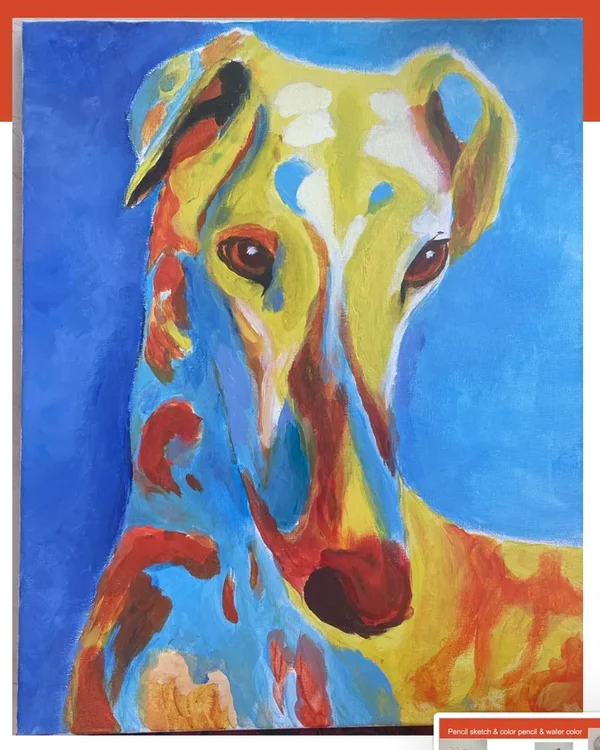
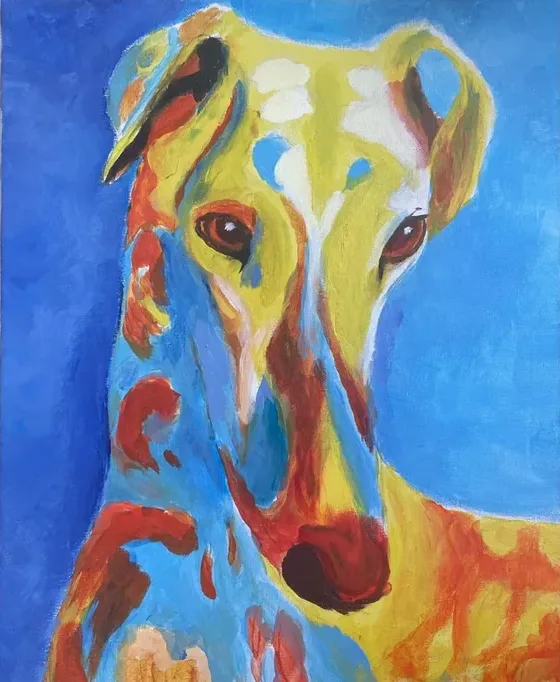
Update RedNote section, add Art gallery
- Rename Xiaohongshu/RED to RedNote across the site
- Add stat cards, audience, top posts and search-driven growth note
- Replace unconfirmed figures; add fan group and paid consultation funnel
- Add Art section with featured works and a collapsible gallery
- Crop greyhound painting

Claude-Session: https://claude.ai/code/session_01CK6WVqp7C8aWsyPmVqZJNo

diff --git a/index.html b/index.html
@@ -4,10 +4,10 @@
 <meta charset="utf-8">
 <meta name="viewport" content="width=device-width, initial-scale=1">
 <title>Hailey Qiu · Growth and AI builder</title>
-<meta name="description" content="HKU student who grew an education brand from zero to 22K followers in 9 months and ships working AI products. Looking for growth, BD and AI product roles at AI startups.">
+<meta name="description" content="HKU student who grew an education brand from zero to 22K followers since Feb 2026 and ships working AI products. Looking for growth, BD and AI product roles at AI startups.">
 <meta property="og:type" content="website">
 <meta property="og:title" content="Hailey Qiu · Growth and AI builder">
-<meta property="og:description" content="Grew an education brand to 22K followers in 9 months. Ships AI tools people actually use.">
+<meta property="og:description" content="Grew an education brand to 22K followers since Feb 2026. Ships AI tools people actually use.">
 <meta property="og:image" content="https://hailey-studio.github.io/og.png">
 <meta property="og:url" content="https://hailey-studio.github.io/">
 <meta name="twitter:card" content="summary_large_image">
@@ -167,6 +167,20 @@ td.after span{background:var(--lime);padding:2px 8px;border-radius:6px}
 .facts li:first-child{border-top:1px solid var(--line)}
 .pair{display:grid;grid-template-columns:repeat(2,minmax(0,1fr));gap:12px}
 .pair img{border-radius:12px;border:1px solid var(--line);width:100%}
+.red-data{margin-top:28px}
+.stat-row{display:grid;grid-template-columns:repeat(3,minmax(0,1fr));gap:10px}
+.stat{background:var(--bg);border-radius:14px;padding:16px 14px}
+.stat strong{display:block;font-size:clamp(24px,2.4vw,32px);font-weight:700;letter-spacing:-.04em;line-height:1}
+.stat span{display:block;margin-top:8px;font-size:13px;line-height:1.45;color:var(--muted)}
+.audience{font-size:14.5px;margin:16px 0 0;color:var(--muted)}
+.audience b{color:var(--ink);font-weight:600}
+.red-data h4{font-size:12.5px;font-weight:600;letter-spacing:.08em;text-transform:uppercase;color:var(--muted);margin:24px 0 10px}
+.top-posts{display:grid;grid-template-columns:repeat(3,minmax(0,1fr));gap:10px;margin:0;padding:0;list-style:none}
+.top-posts img{width:100%;aspect-ratio:3/4;object-fit:cover;border-radius:10px;border:1px solid var(--line)}
+.top-posts p{margin:8px 0 0;font-size:13px;line-height:1.4}
+.top-posts small{display:block;margin-top:3px;color:var(--muted);font-size:12.5px}
+.insight{margin:20px 0 0;font-size:15px;line-height:1.6;padding-left:14px;border-left:3px solid var(--peach)}
+@media (max-width:520px){.stat-row{grid-template-columns:1fr}}
 .tools{display:grid;grid-template-columns:repeat(2,minmax(0,1fr));gap:20px}
 @media (max-width:860px){.tools{grid-template-columns:1fr}}
 .tool{display:grid;grid-template-columns:minmax(0,1fr) 140px;gap:20px;background:var(--bg);border-radius:22px;padding:24px}
@@ -185,6 +199,20 @@ td.after span{background:var(--lime);padding:2px 8px;border-radius:6px}
 @media (max-width:900px){.small-builds{grid-template-columns:1fr}}
 
 /* experience */
+.art .proj-head{margin-bottom:28px}
+.art-row{display:flex;gap:14px;align-items:flex-start}
+.art figure{margin:0}
+.art img{width:100%;height:auto;display:block;border-radius:12px;background:#e6e5e0}
+.art figcaption{font-size:13px;color:var(--muted);margin-top:8px;line-height:1.4}
+.art figcaption b{color:var(--ink);font-weight:600}
+.art details{margin-top:28px;border-top:1px solid var(--line)}
+.art summary{cursor:pointer;list-style:none;padding:18px 0;font-weight:600;font-size:15px;display:flex;align-items:center;gap:10px}
+.art summary::-webkit-details-marker{display:none}
+.art summary .plus{display:inline-grid;place-items:center;width:26px;height:26px;border-radius:50%;background:var(--ink);color:#fff;font-size:16px;line-height:1;transition:transform .3s}
+.art details[open] summary .plus{transform:rotate(45deg)}
+.art-more{columns:4 200px;column-gap:14px;padding-bottom:8px}
+.art-more figure{break-inside:avoid;margin:0 0 18px}
+@media (max-width:760px){.art-row{display:block;columns:2;column-gap:12px}.art-row figure{break-inside:avoid;margin:0 0 16px}.art-more{columns:2}}
 .exp{list-style:none;margin:40px 0 0;padding:0}
 .exp li{display:grid;grid-template-columns:200px minmax(0,1fr);gap:8px 24px;padding:22px 0;border-top:1px solid var(--line)}
 .exp li:last-child{border-bottom:1px solid var(--line)}
@@ -253,7 +281,7 @@ td.after span{background:var(--lime);padding:2px 8px;border-radius:6px}
         <p class="rot" aria-label="I grow audiences, ship AI tools, and pitch to rooms of 100+.">
                     <span class="slot" aria-hidden="true" id="rot"><span>I grow <span class="mark">audiences.</span></span><span class="wait">I ship <span class="mark">AI tools.</span></span><span class="wait">I pitch to <span class="mark">rooms of 100+.</span></span></span>
         </p>
-        <p class="lede">Social science student at HKU, class of 2028. In 9 months I grew an education brand <b>from zero to 22K followers</b> with no ad spend, and I build working AI products without an engineering background. Looking for <b>growth, business development and AI product roles at AI startups.</b></p>
+        <p class="lede">Social science student at HKU, class of 2028. Since Feb 2026 I have grown an education brand <b>from zero to 22K followers</b> with no ad spend, and I build working AI products without an engineering background. Looking for <b>growth, business development and AI product roles at AI startups.</b></p>
         <div class="actions">
           <a class="btn dark" href="Hailey_Qiu_CV.pdf" target="_blank" rel="noopener">Download CV</a>
           <a class="btn light" href="#projects">See projects →</a>
@@ -271,7 +299,7 @@ td.after span{background:var(--lime);padding:2px 8px;border-radius:6px}
     <div class="wrap strip-head"><span class="pill"><span class="dot" style="background:var(--peach)"></span>Selected work</span><span class="muted" style="font-size:14px">Hover to pause</span></div>
     <div class="track" id="track">
       <a class="card wide" href="#p1"><span class="ic"><span class="dot" style="background:var(--lime)"></span>Buyer Finder</span><img class="shot" src="assets/buyer-finder.webp" alt="Buyer Finder results page"></a>
-      <a class="card" href="#p2"><span class="ic"><span class="dot" style="background:var(--peach)"></span>0 → 22K on RED</span><img class="shot" src="assets/red-notes.webp" alt="Pinned Xiaohongshu posts"></a>
+      <a class="card" href="#p2"><span class="ic"><span class="dot" style="background:var(--peach)"></span>0 → 22K on RedNote</span><img class="shot" src="assets/red-notes.webp" alt="Pinned RedNote posts"></a>
       <a class="card wide" href="#p3"><span class="ic"><img src="assets/icon-tunjinshou.webp" alt="" width="20" height="20" style="border-radius:5px">留学吞金兽</span><img class="shot" src="assets/tunjinshou-desktop.webp" alt="Study-abroad cost calculator"></a>
       <a class="card" href="#p2"><span class="ic"><span class="dot" style="background:var(--sky)"></span>Talk at CUHK</span><img class="shot" src="assets/cuhk-talk.webp" alt="Lecture hall at CUHK"></a>
       <a class="card wide" href="#p3"><span class="ic"><img src="assets/icon-sixian.webp" alt="" width="20" height="20" style="border-radius:5px">死线航空</span><img class="shot" src="assets/sixian-desktop.webp" alt="Application deadline planner"></a>
@@ -280,7 +308,7 @@ td.after span{background:var(--lime);padding:2px 8px;border-radius:6px}
 
   <div class="wrap">
     <div class="numbers rise">
-      <div><strong data-count="22" data-suffix="K">22K</strong><span>followers on Xiaohongshu, built from zero in 9 months</span></div>
+      <div><strong data-count="22" data-suffix="K">22K</strong><span>followers on RedNote, built from zero since Feb 2026</span></div>
       <div><strong data-count="60" data-suffix="K">60K</strong><span>likes on the first post after a data-led pivot</span></div>
       <div><strong>1 → 4</strong><span>fully verified buyers per Buyer Finder search, after six test rounds</span></div>
       <div><strong data-count="100" data-suffix="+">100+</strong><span>students at my talk at CUHK</span></div>
@@ -289,7 +317,7 @@ td.after span{background:var(--lime);padding:2px 8px;border-radius:6px}
 
   <section id="about" class="wrap">
     <div class="about-head"><span class="pill"><span class="dot" style="background:var(--lime)"></span>About me</span></div>
-    <p class="reveal-text" id="story">I started on Xiaohongshu writing about personal growth, and almost nobody read it. The numbers showed one post about international schools far ahead of the rest, so I rebuilt the account around it. The first post after the pivot got 60K likes. Strangers in my DMs became parents I met in person, then paying clients.</p>
+    <p class="reveal-text" id="story">I started on RedNote writing about personal growth, and almost nobody read it. The numbers showed one post about international schools far ahead of the rest, so I rebuilt the account around it. The first post after the pivot got 60K likes. Strangers in my DMs became parents I met in person, then paying clients.</p>
     <div class="about-more">
       <div class="rise">
         <p>That path, <b>from being seen to being trusted</b>, is what I want to bring to an AI startup.</p>
@@ -358,17 +386,34 @@ td.after span{background:var(--lime);padding:2px 8px;border-radius:6px}
     <article class="project rise" id="p2">
       <div class="p-meta"><span class="chip">02</span><span class="chip"><span class="dot" style="background:var(--peach)"></span>Growth · Feb 2026 to now</span></div>
       <h3>An education brand, <span class="it">from 0 to 22K</span></h3>
-      <p class="sub">My own Xiaohongshu (RED) account about international education.</p>
+      <p class="sub">My own RedNote account about international education.</p>
       <div class="p-grid">
+        <div>
         <div class="pair">
-          <img src="assets/red-profile.webp" alt="Xiaohongshu profile page of the account" loading="lazy">
+          <img src="assets/red-profile.webp" alt="RedNote profile page of the account" loading="lazy">
           <img src="assets/red-notes.webp" alt="Two pinned posts, one with 62K likes" loading="lazy" style="align-self:start">
+        </div>
+        <div class="red-data">
+          <div class="stat-row">
+            <div class="stat"><strong>22K</strong><span>followers</span></div>
+            <div class="stat"><strong>132K</strong><span>likes &amp; saves</span></div>
+            <div class="stat"><strong>~50%</strong><span>of new followers come from search (last 30 days: 50.9%)</span></div>
+          </div>
+          <p class="audience"><b>Audience:</b> 86% women, mostly aged 25–44. Top cities: Shanghai, Beijing, Shenzhen.</p>
+          <h4>Top posts</h4>
+          <ul class="top-posts">
+            <li><img src="assets/red-top-intl.webp" alt="Post cover about international schools" loading="lazy"><p>International schools and the pressure to keep up<small>62K likes</small></p></li>
+            <li><img src="assets/red-top-hku.webp" alt="Post cover about HKU" loading="lazy"><p>What HKU's prestige really looks like<small>6.1K likes</small></p></li>
+            <li><img src="assets/red-top-middle.webp" alt="Post cover about middle-class families and studying abroad" loading="lazy"><p>Middle-class families and the cost of studying abroad<small>3.1K likes</small></p></li>
+          </ul>
+          <p class="insight">About half of new followers find the account through search rather than the feed, so the content keeps attracting followers long after posting (a post from Oct 25 is still among the top follower drivers this month).</p>
+        </div>
         </div>
         <div class="p-text">
           <ul class="facts">
-            <li><b>0 to 22K followers in 9 months</b>, zero ad spend.</li>
-            <li>Read post-level data, found the strongest topic and repositioned the account. The first post after the pivot reached <b>60K likes and 10K new followers</b>; the pinned video passed 875K views.</li>
-            <li>Built a content-to-revenue funnel: inbound DMs, then in-person consultations, then paying study-planning clients.</li>
+            <li><b>0 to 22K followers</b>, zero ad spend.</li>
+            <li>Read post-level data, found the strongest topic and repositioned the account. The first post after the pivot reached <b>60K likes and 10K new followers</b>.</li>
+            <li>Built a content-to-revenue funnel: a RedNote fan group of <b>203 members</b>, then private WeChat, then <b>40 parents paying for one-on-one consultations</b>.</li>
             <li>Paid brand partnerships with education platforms, and a co-created video with a Bilibili creator with 1M+ followers.</li>
           </ul>
           <figure style="margin:24px 0 0">
@@ -382,7 +427,7 @@ td.after span{background:var(--lime);padding:2px 8px;border-radius:6px}
     <article class="project rise" id="p3">
       <div class="p-meta"><span class="chip">03</span><span class="chip"><span class="dot" style="background:var(--sky)"></span>Web tools · Live</span></div>
       <h3>Two free tools for students applying abroad</h3>
-      <p class="sub">Listed as Xiaohongshu mini-tools, so they open straight from a post.</p>
+      <p class="sub">Listed as RedNote mini-tools, so they open straight from a post.</p>
       <div class="tools">
         <div class="tool">
           <div>
@@ -427,7 +472,7 @@ td.after span{background:var(--lime);padding:2px 8px;border-radius:6px}
     </div>
     <ul class="exp rise">
       <li><span class="when">Jan – Mar 2027<br><span class="chip" style="margin-top:6px;background:var(--paper)"><span class="dot" style="background:var(--sky)"></span>Upcoming</span></span><div><span class="role">Team Lead</span> <span class="org">· IOT Data Hackathon 2027 (GS1 Hong Kong, Cyberport, HKSTP)</span><p>Competition starts in January 2027. I recruited a cross-university team (computer engineering, AI security, quantitative finance) and will own the problem research, business plan and final pitch.</p></div></li>
-      <li><span class="when">Feb 2026 – now</span><div><span class="role">Founder, study-abroad content and consulting</span> <span class="org">· Xiaohongshu (RED)</span><p>0 to 22K followers in 9 months; turned inbound DMs into paying clients and brand deals.</p></div></li>
+      <li><span class="when">Feb 2026 – now</span><div><span class="role">Founder, study-abroad content and consulting</span> <span class="org">· RedNote</span><p>0 to 22K followers; moved followers from a 203-member fan group to private WeChat, leading to 40 paid one-on-one consultations, plus brand deals.</p></div></li>
       <li><span class="when">Jun – Aug 2026</span><div><span class="role">Policy Research Intern</span> <span class="org">· Hong Kong Policy Research Institute, Shenzhen</span><p>Wrote a policy analysis on cross-border asset recovery. Presented research on the Qianhai marine economy under HKU's SIGC programme.</p></div></li>
       <li><span class="when">Summer 2026</span><div><span class="role">Speaker</span> <span class="org">· The Chinese University of Hong Kong</span><p>Talked to 100+ visiting high school students from Guangzhou about studying in Hong Kong. Also a guest speaker for ElitePrime Family Office.</p></div></li>
       <li><span class="when">2026</span><div><span class="role">Top 40</span> <span class="org">· Miss Hong Kong Pageant (TVB)</span><p>I was afraid of cameras, so I signed up.</p></div></li>
@@ -440,6 +485,32 @@ td.after span{background:var(--lime);padding:2px 8px;border-radius:6px}
         <li><b>Valley Christian High School</b>, California <span class="muted">· 2021 – 2024</span><br><span class="muted" style="font-size:15px">DECA vice president; led a 1,000+ attendee cultural festival; AP Microeconomics teaching assistant</span></li>
       </ul>
     </div>
+  </section>
+
+  <section id="art" class="wrap art">
+    <div class="proj-head">
+      <h2 class="sec-title">Art</h2>
+      <p>What I do for fun.</p>
+    </div>
+    <div class="art-row rise">
+      <figure style="flex:1.333"><img src="assets/art/beetles.webp" alt="Figure with beetles, coloured pencil and gold" loading="lazy"><figcaption><b>Figure with beetles</b> · coloured pencil and gold</figcaption></figure>
+      <figure style="flex:0.718"><img src="assets/art/gold-fish.webp" alt="Blue figure with gold fish, coloured pencil" loading="lazy"><figcaption><b>Blue figure with gold fish</b> · coloured pencil</figcaption></figure>
+      <figure style="flex:0.821"><img src="assets/art/greyhound.webp" alt="Greyhound, acrylic on canvas" loading="lazy"><figcaption><b>Greyhound</b> · acrylic on canvas</figcaption></figure>
+      <figure style="flex:0.789"><img src="assets/art/flowers-gold.webp" alt="Flowers in gold, acrylic and oil" loading="lazy"><figcaption><b>Flowers in gold</b> · acrylic and oil</figcaption></figure>
+    </div>
+    <details>
+      <summary><span class="plus">+</span>More drawings (8)</summary>
+      <div class="art-more">
+        <figure><img src="assets/art/gold-web.webp" alt="Blue figure with gold web, coloured pencil and gold" loading="lazy"><figcaption><b>Blue figure with gold web</b> · coloured pencil and gold</figcaption></figure>
+        <figure><img src="assets/art/rose.webp" alt="Rose, digital" loading="lazy"><figcaption><b>Rose</b> · digital</figcaption></figure>
+        <figure><img src="assets/art/vase.webp" alt="Glass vase, coloured pencil" loading="lazy"><figcaption><b>Glass vase</b> · coloured pencil</figcaption></figure>
+        <figure><img src="assets/art/abstract-oil.webp" alt="Abstract, oil" loading="lazy"><figcaption><b>Abstract</b> · oil</figcaption></figure>
+        <figure><img src="assets/art/beads.webp" alt="Beads on canvas, mixed media" loading="lazy"><figcaption><b>Beads on canvas</b> · mixed media</figcaption></figure>
+        <figure><img src="assets/art/two-faces.webp" alt="Two faces, digital" loading="lazy"><figcaption><b>Two faces</b> · digital</figcaption></figure>
+        <figure><img src="assets/art/portrait-girl.webp" alt="Portrait, iPad" loading="lazy"><figcaption><b>Portrait</b> · iPad</figcaption></figure>
+        <figure><img src="assets/art/portrait-sister.webp" alt="My sister, iPad" loading="lazy"><figcaption><b>My sister</b> · iPad</figcaption></figure>
+      </div>
+    </details>
   </section>
 </main>
 </div>
